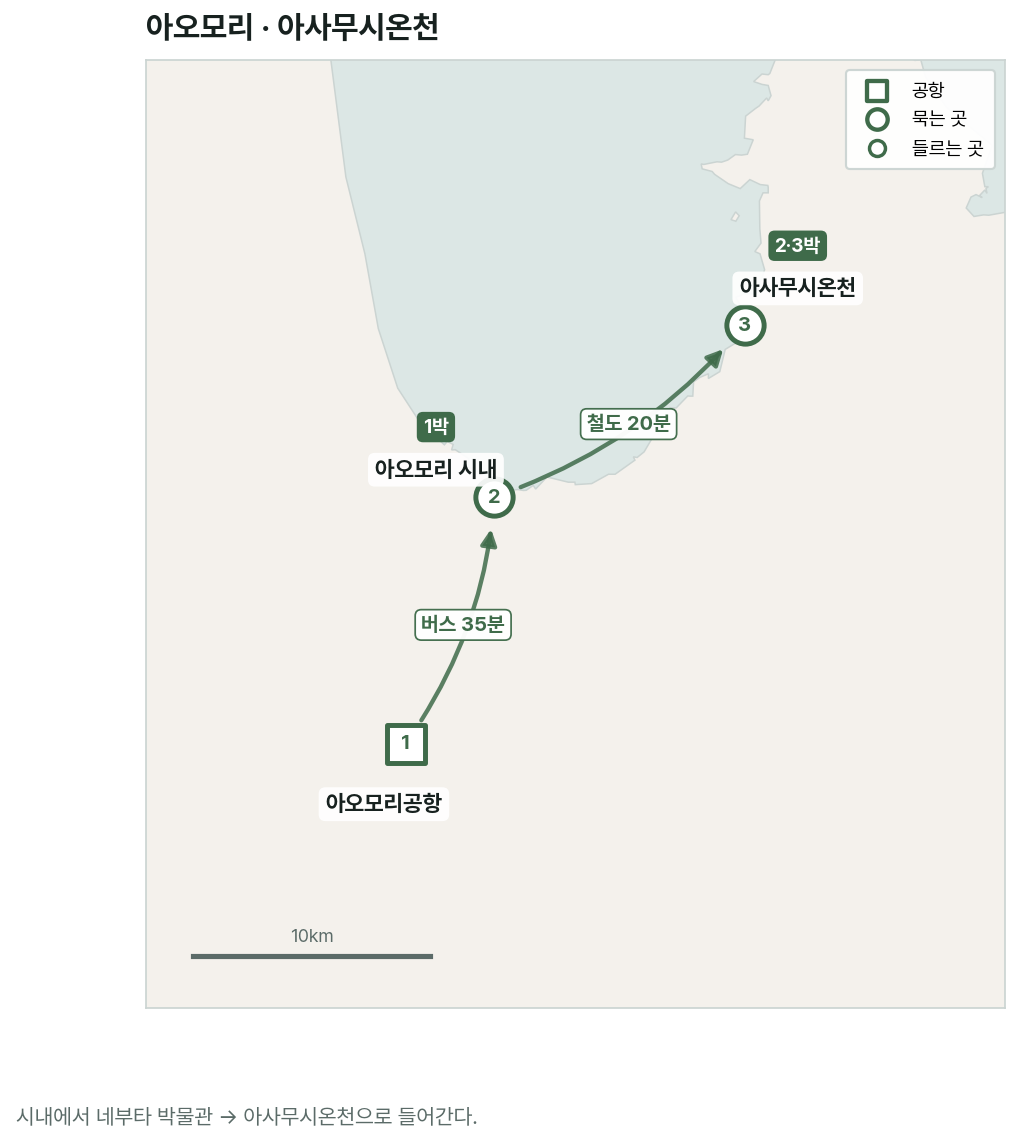
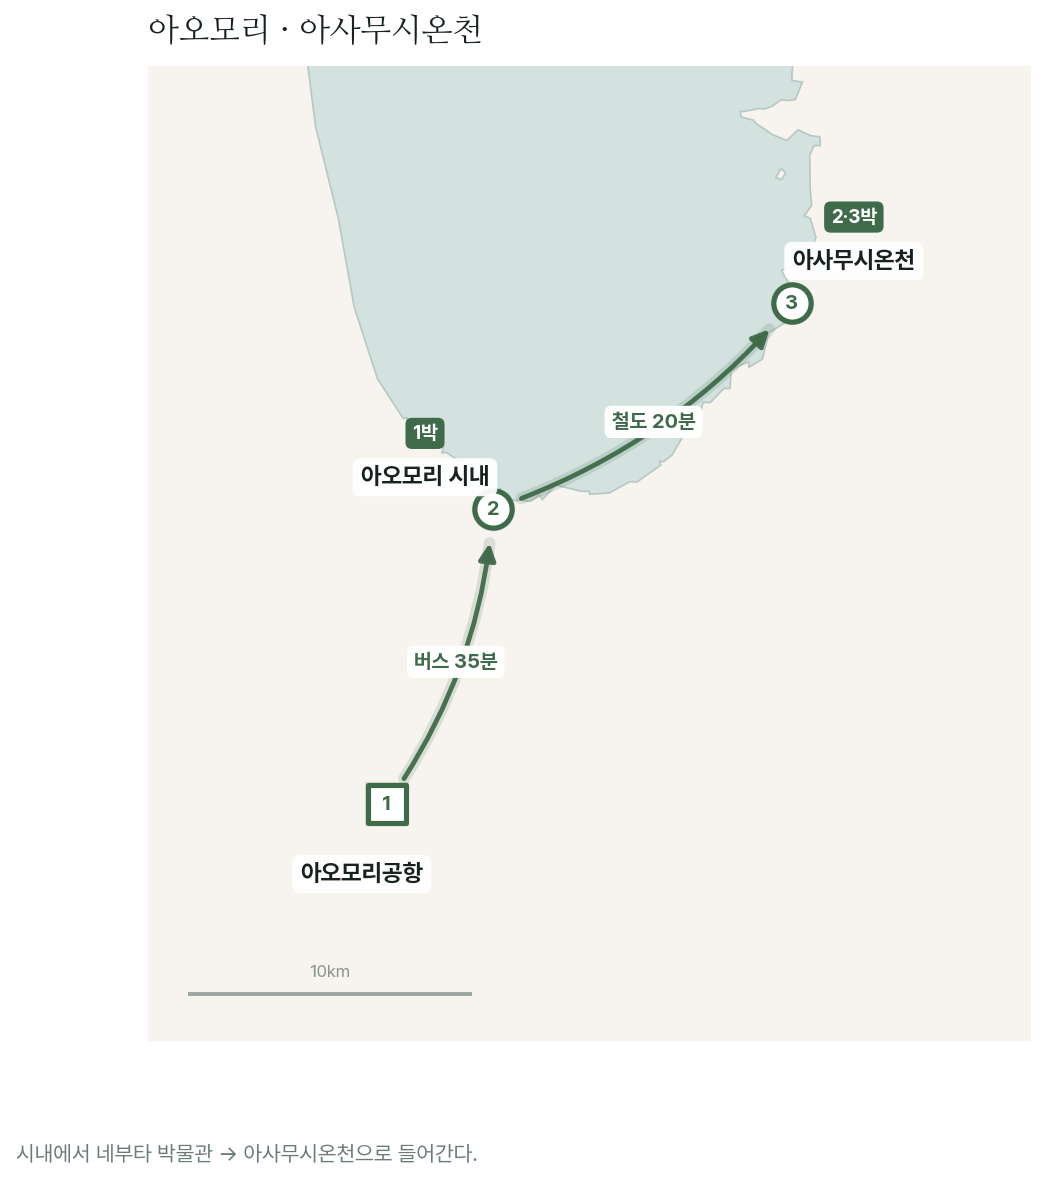
style: 동선 지도를 페이지 톤에 맞춰 다시 그리고 다크 버전 추가
페이지는 다크인데 지도만 흰 판으로 떠서 눈에 튀었다. 테마별로 두 벌 만들고
<picture>로 전환한다.

- 라이트/다크 두 벌 생성, prefers-color-scheme로 교체
  다크는 바다를 거의 검정으로, 육지를 밝은 회녹으로 잡아 해안선을 살렸다
- 제목 서체를 Nanum Myeongjo로 — 페이지 --display(명조)와 맞춘다
- 범례 제거: 사각/큰 원/작은 원은 설명 없이 읽힌다. 자리만 차지했다
- 여백 축소(0.55→0.34): 빈 땅이 화면 절반을 먹고 동선이 작게 몰려 있었다
- 동선에 두께감 — 같은 곡선을 굵고 연하게 한 겹 깔았다
- 지점 마커에 은은한 후광, 라벨·축척의 테두리 제거

diff --git a/japan-onsen-picker/index.html b/japan-onsen-picker/index.html
@@ -424,7 +424,7 @@
 <div class="fit-row"><div class="fit-key">조용함</div><div class="fit-val">관광도시가 아니라 생활 도시다. 12월 페이전트 기간만 붐빈다.</div></div>
 <div class="fit-row"><div class="fit-key">겨울</div><div class="fit-val">눈은 적은 편. 이동이 막힐 걱정은 낮지만 설경을 기대하면 아쉽다.</div></div>
 </div></section>
-<section><div class="sec-head"><h2>동선</h2><p class="sec-note">숫자는 도는 순서다. 지도는 실제 위경도라 거리감이 그대로다.</p></div><figure><img src="route-sendai.png" alt="sendai 3박 4일 동선 지도" loading="lazy"><figcaption>센다이공항에서 시내 25분, 마츠시마 40분, 아키우온천 50분. 세 방향이 모두 한 시간 안이다.</figcaption></figure></section>
+<section><div class="sec-head"><h2>동선</h2><p class="sec-note">숫자는 도는 순서다. 지도는 실제 위경도라 거리감이 그대로다.</p></div><figure><picture><source srcset="route-sendai-dark.png" media="(prefers-color-scheme: dark)"><img src="route-sendai.png" alt="sendai 3박 4일 동선 지도" loading="lazy"></picture><figcaption>센다이공항에서 시내 25분, 마츠시마 40분, 아키우온천 50분. 세 방향이 모두 한 시간 안이다.</figcaption></figure></section>
 <section><div class="sec-head"><h2>3박 4일 일정</h2><p class="sec-note">하루에 큰 일정 하나씩. 셋째 날은 온천에서 통째로 쉰다.</p></div><div class="days">
 <article class="day"><div class="day-head"><span class="day-no">DAY 1</span><h3>도착하고, 도시를 걷는다</h3><span class="day-stay">센다이 1박</span></div><div class="steps">
 <div class="step"><time>12:00</time><div>센다이공항 도착 → <span class="move">공항철도 25분</span> 센다이역</div></div>
@@ -501,7 +501,7 @@
 <div class="fit-row"><div class="fit-key">조용함</div><div class="fit-val">겨울은 비수기라 사람이 적다. 홋카이도 3대 온천마을이지만 번잡하지 않다.</div></div>
 <div class="fit-row"><div class="fit-key">겨울</div><div class="fit-val">눈이 확실히 온다. 12~3월은 눈에 반사된 야경이 더 밝다.</div></div>
 </div></section>
-<section><div class="sec-head"><h2>동선</h2><p class="sec-note">숫자는 도는 순서다. 지도는 실제 위경도라 거리감이 그대로다.</p></div><figure><img src="route-hakodate.png" alt="hakodate 3박 4일 동선 지도" loading="lazy"><figcaption>공항에서 온천까지 버스 6분. 짐을 한 번만 옮기고 시내는 전차로 오간다.</figcaption></figure></section>
+<section><div class="sec-head"><h2>동선</h2><p class="sec-note">숫자는 도는 순서다. 지도는 실제 위경도라 거리감이 그대로다.</p></div><figure><picture><source srcset="route-hakodate-dark.png" media="(prefers-color-scheme: dark)"><img src="route-hakodate.png" alt="hakodate 3박 4일 동선 지도" loading="lazy"></picture><figcaption>공항에서 온천까지 버스 6분. 짐을 한 번만 옮기고 시내는 전차로 오간다.</figcaption></figure></section>
 <section><div class="sec-head"><h2>3박 4일 일정</h2><p class="sec-note">숙소를 옮기지 않고 온천에 3박. 매일 같은 방으로 돌아온다.</p></div><div class="days">
 <article class="day"><div class="day-head"><span class="day-no">DAY 1</span><h3>도착하자마자 온천</h3><span class="day-stay">유노카와온천 1박</span></div><div class="steps">
 <div class="step"><time>12:00</time><div>하코다테공항 도착 → <span class="move">버스 6분</span> 유노카와온천</div></div>
@@ -572,7 +572,7 @@
 <div class="fit-row"><div class="fit-key">조용함</div><div class="fit-val">유와쿠는 조용하지만 <b>겐로쿠엔·차야가이는 관광객이 많다.</b> 이른 아침에 도는 편이 낫다.</div></div>
 <div class="fit-row"><div class="fit-key">겨울</div><div class="fit-val">호쿠리쿠라 눈이 많다. 겐로쿠엔 유키즈리 야간 라이트업은 1월 하순~2월.</div></div>
 </div></section>
-<section><div class="sec-head"><h2>동선</h2><p class="sec-note">숫자는 도는 순서다. 지도는 실제 위경도라 거리감이 그대로다.</p></div><figure><img src="route-kanazawa.png" alt="kanazawa 3박 4일 동선 지도" loading="lazy"><figcaption>고마쓰공항에서 시내 40분. 유와쿠온천은 시내에서 차로 25분이고 여관 송영이 있다.</figcaption></figure></section>
+<section><div class="sec-head"><h2>동선</h2><p class="sec-note">숫자는 도는 순서다. 지도는 실제 위경도라 거리감이 그대로다.</p></div><figure><picture><source srcset="route-kanazawa-dark.png" media="(prefers-color-scheme: dark)"><img src="route-kanazawa.png" alt="kanazawa 3박 4일 동선 지도" loading="lazy"></picture><figcaption>고마쓰공항에서 시내 40분. 유와쿠온천은 시내에서 차로 25분이고 여관 송영이 있다.</figcaption></figure></section>
 <section><div class="sec-head"><h2>3박 4일 일정</h2><p class="sec-note">도시를 이틀 보고, 마지막 밤을 온천에서 보낸다.</p></div><div class="days">
 <article class="day"><div class="day-head"><span class="day-no">DAY 1</span><h3>도착하고, 시장과 찻집 거리</h3><span class="day-stay">가나자와 1박</span></div><div class="steps">
 <div class="step"><time>12:30</time><div>고마쓰공항 도착 → <span class="move">리무진버스</span> 가나자와역</div></div>
@@ -644,7 +644,7 @@
 <div class="fit-row"><div class="fit-key">조용함</div><div class="fit-val">겨울 비수기에는 사람이 적다. 아사무시는 역 앞 족욕이 있는 작은 온천마을이다.</div></div>
 <div class="fit-row"><div class="fit-key">겨울</div><div class="fit-val">다섯 후보 중 눈이 가장 많다. 대신 폭설로 열차가 지연될 수 있다.</div></div>
 </div></section>
-<section><div class="sec-head"><h2>동선</h2><p class="sec-note">숫자는 도는 순서다. 지도는 실제 위경도라 거리감이 그대로다.</p></div><figure><img src="route-aomori.png" alt="aomori 3박 4일 동선 지도" loading="lazy"><figcaption>공항에서 시내 35분, 아사무시온천까지 철도 20분. 한 방향으로 곧게 간다.</figcaption></figure></section>
+<section><div class="sec-head"><h2>동선</h2><p class="sec-note">숫자는 도는 순서다. 지도는 실제 위경도라 거리감이 그대로다.</p></div><figure><picture><source srcset="route-aomori-dark.png" media="(prefers-color-scheme: dark)"><img src="route-aomori.png" alt="aomori 3박 4일 동선 지도" loading="lazy"></picture><figcaption>공항에서 시내 35분, 아사무시온천까지 철도 20분. 한 방향으로 곧게 간다.</figcaption></figure></section>
 <section><div class="sec-head"><h2>3박 4일 일정</h2><p class="sec-note">추운 지역이라 실내 일정을 중심에 두고, 야외는 짧게 끊었다.</p></div><div class="days">
 <article class="day"><div class="day-head"><span class="day-no">DAY 1</span><h3>도착하고 실내부터</h3><span class="day-stay">아오모리 1박</span></div><div class="steps">
 <div class="step"><time>13:00</time><div>아오모리공항 → <span class="move">리무진 약 35분</span> 시내</div></div>
@@ -714,7 +714,7 @@
 <div class="fit-row"><div class="fit-key">조용함</div><div class="fit-val">인천 직항이 하루 한 편뿐이라 한국인 관광객이 적다. 마쓰에는 인구 20만의 성곽도시라 붐비지 않는다.</div></div>
 <div class="fit-row"><div class="fit-key">겨울</div><div class="fit-val">산인은 눈이 온다. 마쓰에성과 아다치 정원의 설경은 운이 따라야 하지만 12~1월엔 한두 번은 본다. 다이센 설산이 가이케 해변에서 바다 너머로 보인다.</div></div>
 </div></section>
-<section><div class="sec-head"><h2>동선</h2><p class="sec-note">숫자는 도는 순서다. 지도는 실제 위경도라 거리감이 그대로다.</p></div><figure><img src="route-yonago.png" alt="yonago 3박 4일 동선 지도" loading="lazy"><figcaption>공항에서 가이케온천 택시 20분. 마쓰에·아다치미술관이 서쪽으로 이어진다.</figcaption></figure></section>
+<section><div class="sec-head"><h2>동선</h2><p class="sec-note">숫자는 도는 순서다. 지도는 실제 위경도라 거리감이 그대로다.</p></div><figure><picture><source srcset="route-yonago-dark.png" media="(prefers-color-scheme: dark)"><img src="route-yonago.png" alt="yonago 3박 4일 동선 지도" loading="lazy"></picture><figcaption>공항에서 가이케온천 택시 20분. 마쓰에·아다치미술관이 서쪽으로 이어진다.</figcaption></figure></section>
 <section><div class="sec-head"><h2>3박 4일 일정</h2><p class="sec-note">가이케 2박 + 타마쓰쿠리 1박. 이동은 서쪽으로 한 방향이고, 가장 긴 구간이 1시간 10분이다.</p></div><div class="days">
 <article class="day"><div class="day-head"><span class="day-no">DAY 1</span><h3>바다 온천에서 시작</h3><span class="day-stay">가이케온천 1박</span></div><div class="steps">
 <div class="step"><time>13:20</time><div>인천 → <span class="move">에어서울 1시간 25분</span> 요나고 기타로공항 14:45</div></div>

diff --git a/japan-onsen-picker/_figures/make_routes.py b/japan-onsen-picker/_figures/make_routes.py
@@ -16,18 +16,24 @@ matplotlib.use("Agg")
 import matplotlib.pyplot as plt
 from matplotlib.patches import FancyArrowPatch
 
-FONT = "Pretendard"
-plt.rcParams["font.family"] = FONT
+plt.rcParams["font.family"] = "Pretendard"
 plt.rcParams["axes.unicode_minus"] = False
+DISPLAY = "Nanum Myeongjo"   # 페이지 제목 서체(--display)와 맞춘다
 
 HERE = os.path.dirname(os.path.abspath(__file__))
 OUT = os.path.join(HERE, "..")
 
-SEA = "#DCE7E5"
-LAND = "#F4F1EC"
-LAND_EDGE = "#CBD4D2"
-INK = "#17211F"
-SOFT = "#5B6B68"
+THEMES = {
+    "light": dict(sea="#D3E2DF", land="#F7F4EF", edge="#B9C8C5",
+                  ink="#17211F", soft="#6B7B78", label="#FFFFFF", bg="#FFFFFF"),
+    "dark":  dict(sea="#0E1615", land="#2A3734", edge="#47574F",
+                  ink="#E7EDEB", soft="#93A5A2", label="#1A2321", bg="#121918"),
+}
+# 도시 강조색 — 라이트 / 다크
+ACCENTS = {
+    "#B5632F": "#D98A52", "#2F6B8F": "#6FB0D4", "#9E3B4A": "#D4788A",
+    "#3F6B4A": "#7FB68C", "#6B5B8F": "#A79BC9",
+}
 
 # 지점: (이름, 위도, 경도, 종류)  종류 — air 공항 · stay 숙박 · spot 관광
 ROUTES = {
@@ -125,7 +131,9 @@ def load_prefs(path):
     return out
 
 
-def draw(key, cfg, prefs):
+def draw(key, cfg, prefs, theme="light"):
+    C = THEMES[theme]
+    accent = cfg["accent"] if theme == "light" else ACCENTS[cfg["accent"]]
     pts = cfg["points"]
     lats = [p[1] for p in pts]
     lons = [p[2] for p in pts]
@@ -133,47 +141,53 @@ def draw(key, cfg, prefs):
     if "zoom" in cfg:
         y0, y1, x0, x1 = cfg["zoom"]
     else:
-        pad_y = max((max(lats) - min(lats)) * 0.55, 0.10)
-        pad_x = max((max(lons) - min(lons)) * 0.45, 0.13)
+        # 여백은 동선을 담을 만큼만 — 넓으면 빈 땅만 보인다
+        pad_y = max((max(lats) - min(lats)) * 0.34, 0.075)
+        pad_x = max((max(lons) - min(lons)) * 0.26, 0.10)
         y0, y1 = min(lats) - pad_y, max(lats) + pad_y
         x0, x1 = min(lons) - pad_x, max(lons) + pad_x
 
     # 경도 1도는 위도에 따라 짧아진다 — 화면 비율을 실제 거리에 맞춘다
     kx = math.cos(math.radians((y0 + y1) / 2))
     w, h = (x1 - x0) * kx, (y1 - y0)
-    fig_w = 7.2
+    fig_w = 7.4
     fig, ax = plt.subplots(figsize=(fig_w, fig_w * h / w))
-    fig.patch.set_facecolor("white")
-    ax.set_facecolor(SEA)
+    fig.patch.set_facecolor(C["bg"])
+    ax.set_facecolor(C["sea"])
 
     for name in cfg["prefs"]:
         for ring in prefs.get(name, []):
-            ax.fill(*zip(*ring), facecolor=LAND, edgecolor=LAND_EDGE, linewidth=0.7, zorder=1)
+            ax.fill(*zip(*ring), facecolor=C["land"], edgecolor=C["edge"],
+                    linewidth=0.8, zorder=1)
 
-    accent = cfg["accent"]
     for a, b, label in cfg["legs"]:
         (_, ya, xa), (_, yb, xb) = pts[a][:3], pts[b][:3]
-        ax.add_patch(FancyArrowPatch(
-            (xa, ya), (xb, yb), arrowstyle="-|>", mutation_scale=15,
-            linewidth=2.0, color=accent, alpha=.85, zorder=4,
-            connectionstyle="arc3,rad=0.14", shrinkA=13, shrinkB=15))
-        # arc3 곡선의 제어점 → 2차 베지어 t=0.5 지점이 실제 곡선 중앙이다
+        style = dict(connectionstyle="arc3,rad=0.14", shrinkA=14, shrinkB=16)
+        # 같은 곡선을 굵고 연하게 한 번 깔아 선에 두께감을 준다
+        ax.add_patch(FancyArrowPatch((xa, ya), (xb, yb), arrowstyle="-",
+                     linewidth=5.5, color=accent, alpha=.16, zorder=3, **style))
+        ax.add_patch(FancyArrowPatch((xa, ya), (xb, yb), arrowstyle="-|>",
+                     mutation_scale=16, linewidth=2.2, color=accent, alpha=.95,
+                     zorder=4, **style))
         rad = 0.14
         cx = (xa + xb) / 2 + rad * (yb - ya)
         cy = (ya + yb) / 2 - rad * (xb - xa) * kx * kx
         mx, my = (xa + 2 * cx + xb) / 4, (ya + 2 * cy + yb) / 4
         ax.text(mx, my, label, fontsize=9.5, color=accent, weight="bold",
                 ha="center", va="center", zorder=6,
-                bbox=dict(boxstyle="round,pad=0.30", fc="white", ec=accent, lw=0.8, alpha=.97))
+                bbox=dict(boxstyle="round,pad=0.34", fc=C["label"], ec="none"))
 
     for i, p in enumerate(pts):
         name, lat, lon = p[0], p[1], p[2]
         kind = p[3] if len(p) > 3 else "spot"
         marker, size = MARK[kind]
-        ax.scatter([lon], [lat], s=size, marker=marker, color="white",
-                   edgecolors=accent, linewidths=2.3, zorder=7)
+        ax.scatter([lon], [lat], s=size + 110, marker=marker, color=accent,
+                   alpha=.16, linewidths=0, zorder=6)
+        ax.scatter([lon], [lat], s=size, marker=marker, color=C["label"],
+                   edgecolors=accent, linewidths=2.4, zorder=7)
         ax.text(lon, lat, str(i + 1), fontsize=9.5, weight="bold", color=accent,
                 ha="center", va="center", zorder=8)
+
         # 라벨은 그 지점에 붙은 화살표들의 반대편에 둔다 — 안 그러면 화살표가 글자를 관통한다
         forced = p[4] if len(p) > 4 else None
         vx = vy = 0.0
@@ -190,55 +204,48 @@ def draw(key, cfg, prefs):
         else:
             mag = math.hypot(vx, vy)
             ux, uy = (0.0, -1.0) if mag < 1e-9 else (-vx / mag, -vy / mag)
-        dy = (y1 - y0) * (0.082 if "\n" in name else 0.068)
+        dy = (y1 - y0) * (0.090 if "\n" in name else 0.077)
         dx = dy / kx
-        ax.text(lon + ux * dx, lat + uy * dy, name,
-                fontsize=10.5, color=INK, weight="bold" if kind != "spot" else "normal",
+        ax.text(lon + ux * dx, lat + uy * dy, name, fontsize=11,
+                color=C["ink"], weight="bold" if kind != "spot" else "normal",
                 ha="center", va="center", zorder=8,
-                bbox=dict(boxstyle="round,pad=0.30", fc="white", ec="none", alpha=.92))
+                bbox=dict(boxstyle="round,pad=0.34", fc=C["label"], ec="none", alpha=.94))
+
         nights = cfg.get("stays", {}).get(i)
         if nights:
-            lines = name.count("\n") + 1
             # 배지는 라벨과 같은 x에 두고 수직으로 한 줄만 옮긴다.
-            # 가로로 밀면 라벨 글자를 덮고, 노드 쪽으로 당기면 번호를 덮는다.
+            lines = name.count("\n") + 1
             step = (y1 - y0) * 0.045 * lines
             vdir = 1.0 if uy > 0.3 else -1.0
-            ax.text(lon + ux * dx, lat + uy * dy + vdir * step,
-                    nights, fontsize=9, color="white", weight="bold",
+            ax.text(lon + ux * dx, lat + uy * dy + vdir * step, nights,
+                    fontsize=9, color=C["bg"], weight="bold",
                     ha="center", va="center", zorder=9,
-                    bbox=dict(boxstyle="round,pad=0.32", fc=accent, ec="none"))
+                    bbox=dict(boxstyle="round,pad=0.34", fc=accent, ec="none"))
 
     ax.set_xlim(x0, x1)
     ax.set_ylim(y0, y1)
     ax.set_aspect(1 / kx)
     ax.set_xticks([])
     ax.set_yticks([])
-    for s in ax.spines.values():
-        s.set_edgecolor(LAND_EDGE)
+    for sp in ax.spines.values():
+        sp.set_visible(False)
 
-    ax.set_title(cfg["title"], fontsize=14.5, weight="bold", color=INK, pad=11, loc="left")
-    fig.text(0.011, 0.017, cfg["note"], fontsize=10, color=SOFT)
+    ax.set_title(cfg["title"], fontsize=15, color=C["ink"], pad=12, loc="left",
+                 fontfamily=DISPLAY)
+    fig.text(0.012, 0.016, cfg["note"], fontsize=10, color=C["soft"])
 
-    # 축척 — 지도에서 거리를 가늠할 수 있게
+    # 축척 — 거리를 가늠할 수 있게, 눈에 띄지 않게
     km_deg = 111.32 * kx
     bar_km = 10 if (x1 - x0) * km_deg < 90 else 20
-    bx, by = x0 + (x1 - x0) * 0.055, y0 + (y1 - y0) * 0.055
-    ax.plot([bx, bx + bar_km / km_deg], [by, by], color=SOFT, lw=2.4, zorder=9)
-    ax.text(bx + bar_km / km_deg / 2, by + (y1 - y0) * 0.016, f"{bar_km}km",
-            fontsize=8.5, color=SOFT, ha="center", zorder=9)
+    bx, by = x0 + (x1 - x0) * 0.045, y0 + (y1 - y0) * 0.048
+    ax.plot([bx, bx + bar_km / km_deg], [by, by], color=C["soft"], lw=1.8,
+            alpha=.65, zorder=9, solid_capstyle="butt")
+    ax.text(bx + bar_km / km_deg / 2, by + (y1 - y0) * 0.018, f"{bar_km}km",
+            fontsize=8, color=C["soft"], alpha=.8, ha="center", zorder=9)
 
-    ax.scatter([], [], s=90, marker="s", color="white", edgecolors=accent,
-               linewidths=2.0, label="공항")
-    ax.scatter([], [], s=90, marker="o", color="white", edgecolors=accent,
-               linewidths=2.0, label="묵는 곳")
-    ax.scatter([], [], s=55, marker="o", color="white", edgecolors=accent,
-               linewidths=1.6, label="들르는 곳")
-    leg = ax.legend(loc="upper right", fontsize=9, frameon=True, framealpha=.95,
-                    facecolor="white", edgecolor=LAND_EDGE, borderpad=.6, labelspacing=.55)
-    leg.set_zorder(10)
-
-    path = os.path.join(OUT, f"route-{key}.png")
-    fig.savefig(path, dpi=155, bbox_inches="tight", facecolor="white")
+    suffix = "" if theme == "light" else "-dark"
+    path = os.path.join(OUT, f"route-{key}{suffix}.png")
+    fig.savefig(path, dpi=155, bbox_inches="tight", facecolor=C["bg"])
     plt.close(fig)
     return path
 
@@ -246,7 +253,8 @@ def draw(key, cfg, prefs):
 def main():
     prefs = load_prefs(os.path.join(HERE, "japan.geojson"))
     for key, cfg in ROUTES.items():
-        print("생성:", draw(key, cfg, prefs))
+        for theme in ("light", "dark"):
+            print("생성:", os.path.basename(draw(key, cfg, prefs, theme)))
 
 
 if __name__ == "__main__":
